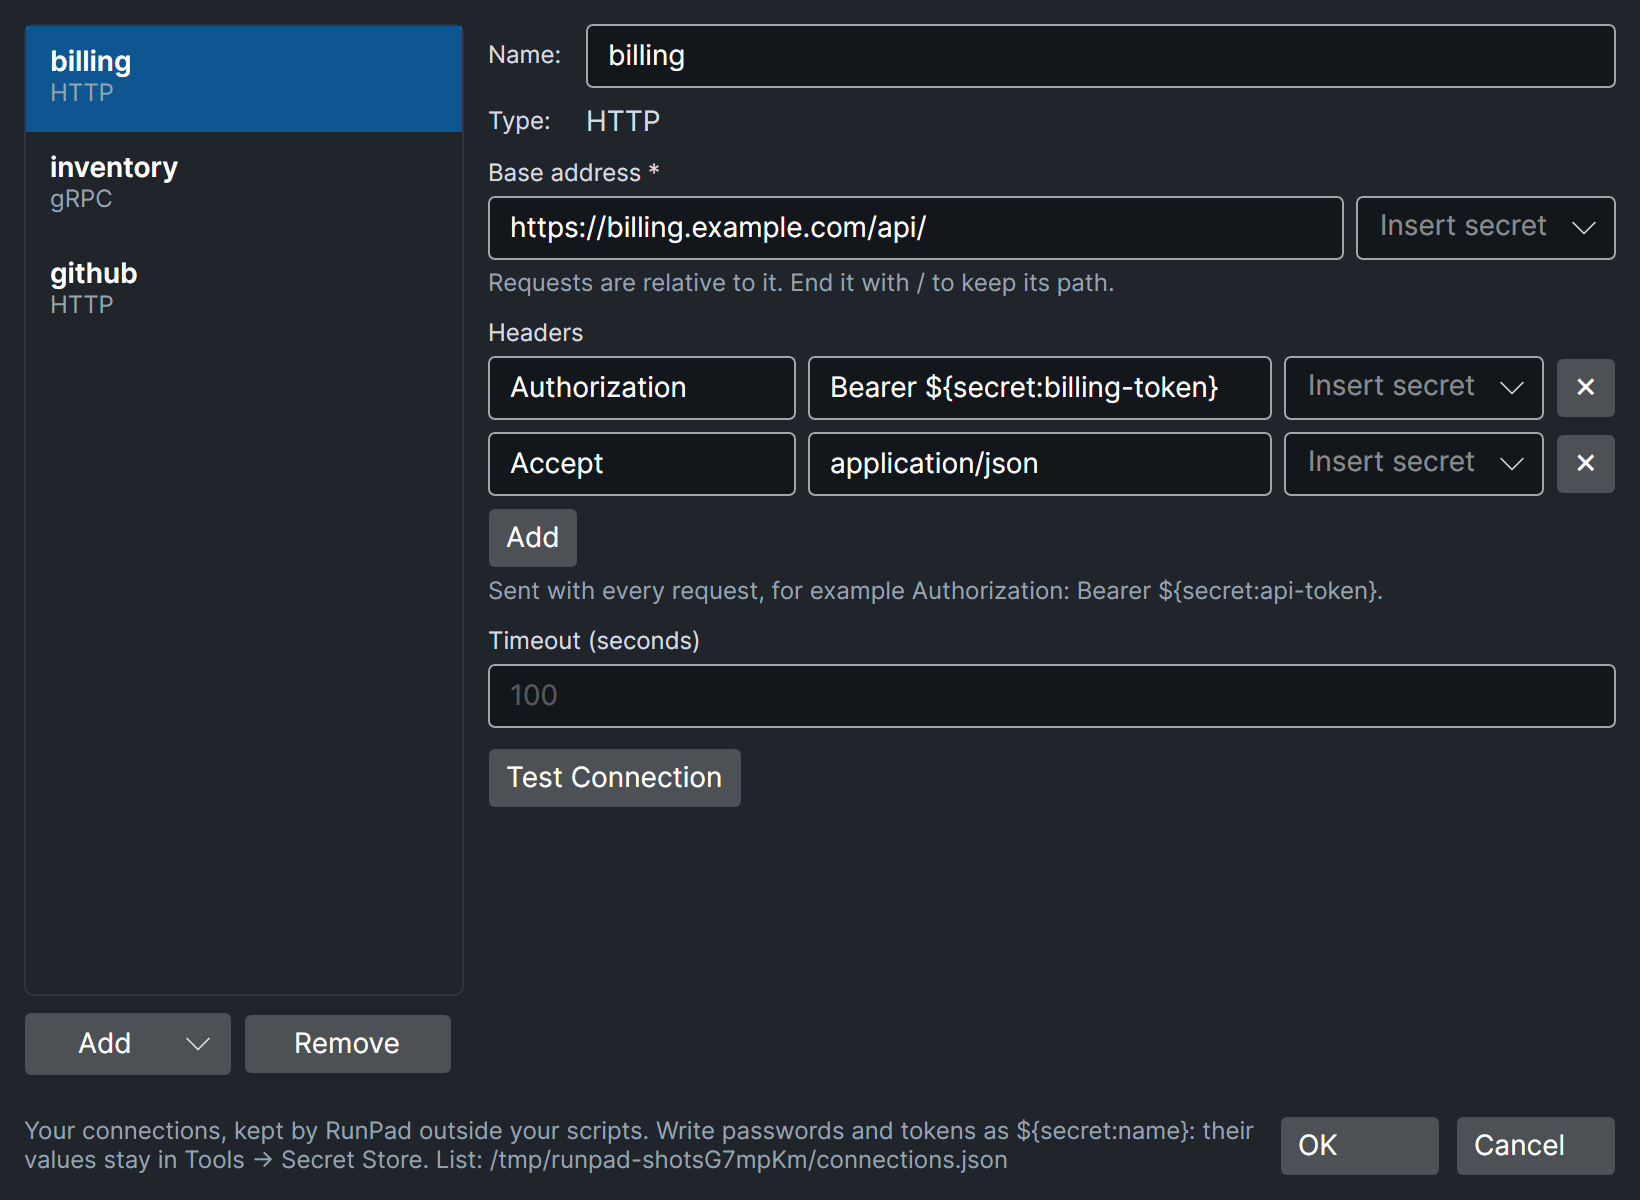
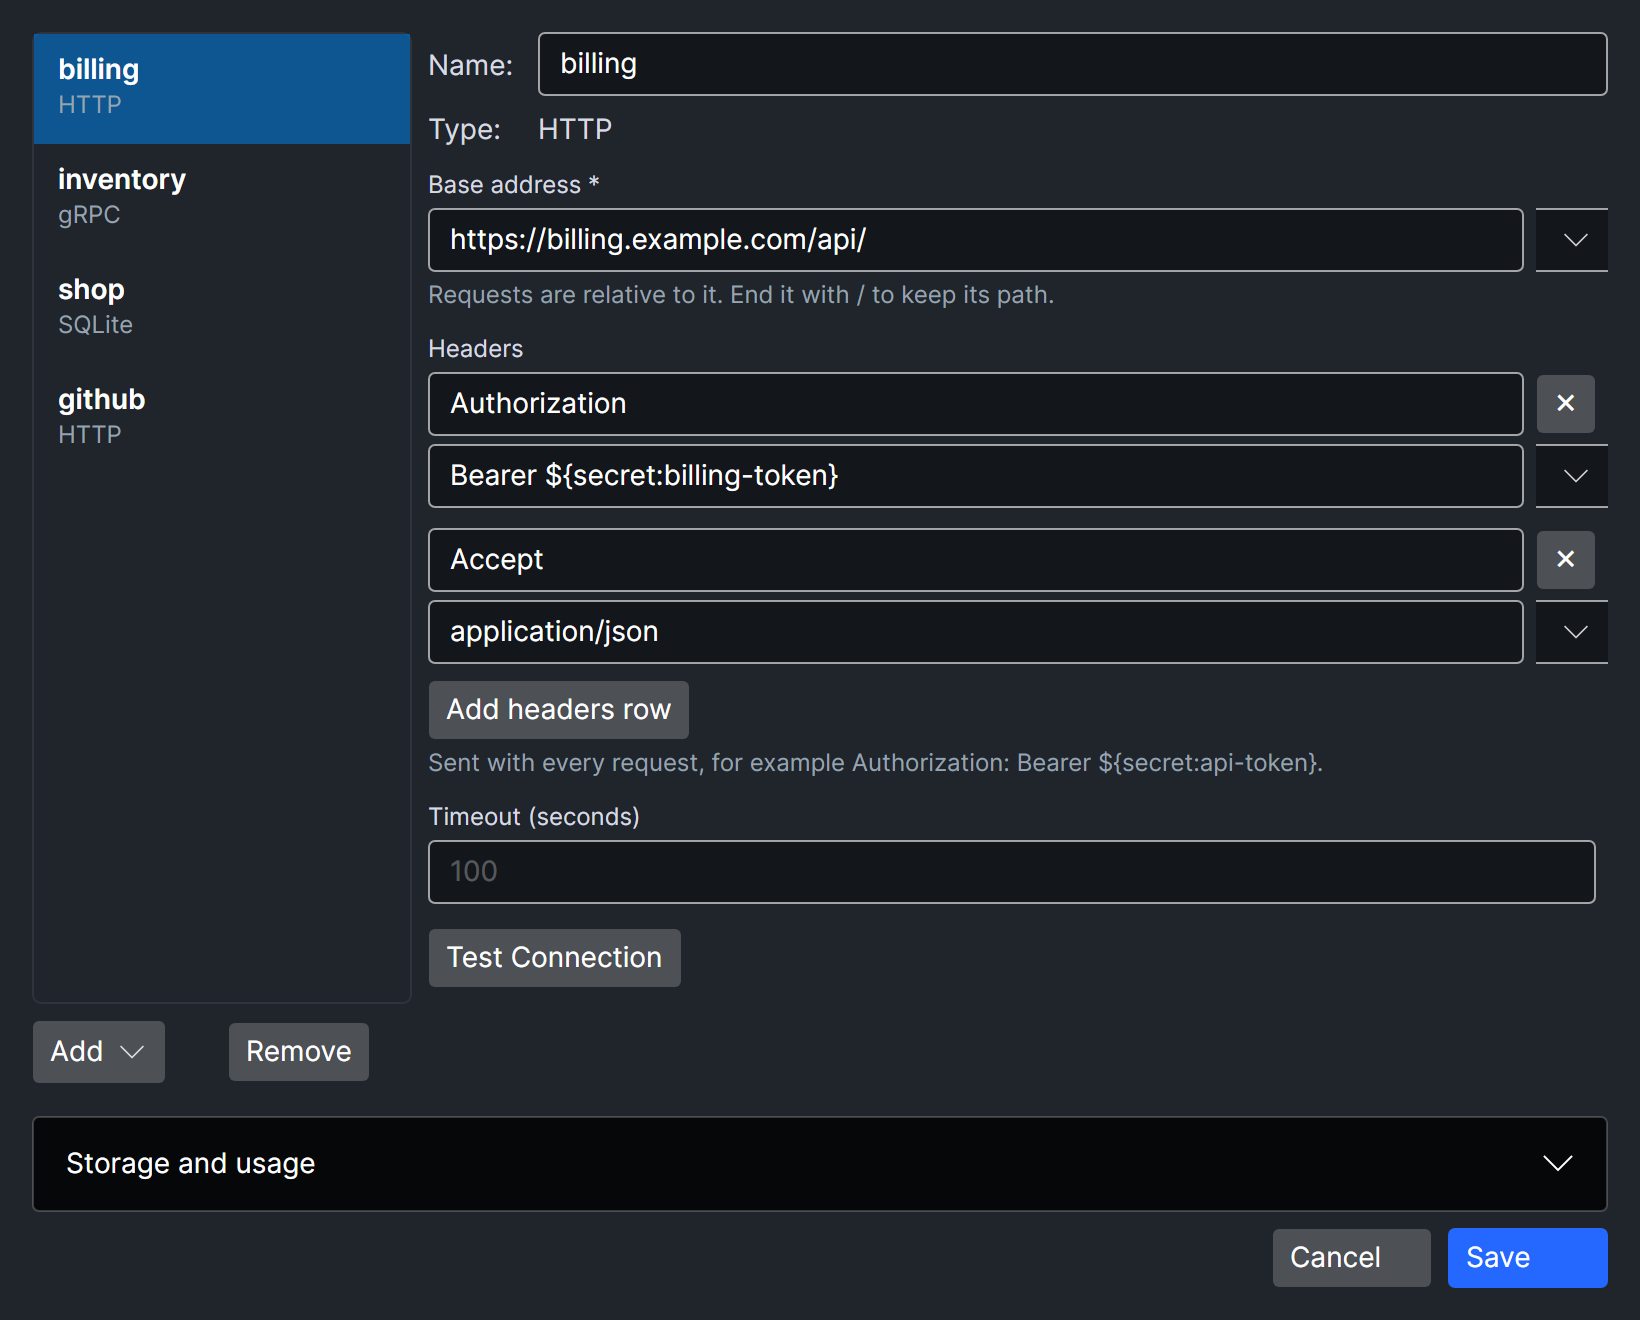
Document SQLite connections

diff --git a/scripts/screenshots/Scenarios.cs b/scripts/screenshots/Scenarios.cs
@@ -356,6 +356,11 @@ public static class Scenarios
             },
             new RpadConnection
             {
+                Name = "shop", Driver = "sqlite",
+                Params = new(StringComparer.Ordinal) { ["file"] = RpadValue.Of("data/shop.db") },
+            },
+            new RpadConnection
+            {
                 Name = "github", Driver = "http",
                 Params = new(StringComparer.Ordinal) { ["baseAddress"] = RpadValue.Of("https://api.github.com/") },
             },
@@ -363,6 +368,7 @@ public static class Scenarios
         var registry = new ConnectionDriverRegistry();
         registry.Register(new HttpConnectionDriver());
         registry.Register(new RunPad.Connectors.Grpc.GrpcConnectionDriver());
+        registry.Register(new RunPad.Connectors.Sqlite.SqliteConnectionDriver());
         var window = new ConnectionsWindow(new ConnectionsWindowViewModel(store, registry, secrets)) { Width = 820, Height = 560 };
         window.Show(c.Window);
         await Pump(1500);

diff --git a/scripts/screenshots/Program.cs b/scripts/screenshots/Program.cs
@@ -158,6 +158,7 @@ public static class Program
             var drivers = new RunPad.Contracts.Connections.ConnectionDriverRegistry();
             drivers.Register(new RunPad.Connectors.Http.HttpConnectionDriver());
             drivers.Register(new RunPad.Connectors.Grpc.GrpcConnectionDriver());
+            drivers.Register(new RunPad.Connectors.Sqlite.SqliteConnectionDriver());
             return drivers;
         });
         services.AddSingleton<Func<DependenciesWindow>>(sp => () => sp.GetRequiredService<DependenciesWindow>());

diff --git a/docs/site/results.md b/docs/site/results.md
@@ -177,20 +177,21 @@ reads the same store. To use another file, for example on a build server, set th
 
 ## Connections
 
-**Tools → Connections** keeps your own connections in one window: for now HTTP APIs and gRPC
-servers, with databases to follow. **Add** creates one of a type; the form shows that type's
-settings. For an HTTP API they are the base address, headers sent with every request and a
-timeout; for a gRPC server, its address and metadata sent with every call.
+**Tools → Connections** keeps your own connections in one window: HTTP APIs, gRPC servers and
+SQLite databases, with other databases to follow. **Add** creates one of a type; the form shows
+that type's settings. For an HTTP API they are the base address, headers sent with every request
+and a timeout; for a gRPC server, its address and metadata sent with every call; for SQLite, the
+database file.
 
 <figure markdown="span">
-  [![The Connections window: billing (HTTP), inventory (gRPC) and github; billing shows its base address and an Authorization header that names a secret](assets/screenshots/connections_light.png#only-light)](assets/screenshots/connections_light.png "Open full-size screenshot")
-  [![The Connections window: billing (HTTP), inventory (gRPC) and github; billing shows its base address and an Authorization header that names a secret](assets/screenshots/connections.png#only-dark)](assets/screenshots/connections.png "Open full-size screenshot")
+  [![The Connections window: billing (HTTP), inventory (gRPC), shop (SQLite) and github; billing shows its base address and an Authorization header that names a secret](assets/screenshots/connections_light.png#only-light)](assets/screenshots/connections_light.png "Open full-size screenshot")
+  [![The Connections window: billing (HTTP), inventory (gRPC), shop (SQLite) and github; billing shows its base address and an Authorization header that names a secret](assets/screenshots/connections.png#only-dark)](assets/screenshots/connections.png "Open full-size screenshot")
 </figure>
 
 Write a password or token as `${secret:name}` (or pick it from **Insert secret**): the value stays
 in the [Secret Store](#secrets) and is filled in only when the connection is used.
 `${env:NAME}` takes an environment variable instead, and `$${` writes a literal `${`.
-**Test Connection** tries the selected connection with those values. **OK** saves the list in
+**Test Connection** tries the selected connection with those values. **Save** saves the list in
 `connections.json` in RunPad's data folder; secrets are never written there.
 
 ### Connections in a script
@@ -251,6 +252,28 @@ else, such as a client RunPad didn't write. The script needs the `Grpc.Net.Clien
 and reads it again when **Test Connection** succeeds, so after the server's services change, test
 the connection once. A server that can't be read, because it is down, refuses the metadata or has
 no reflection, fails the build with the reason, and the **Connections** tab shows it.
+
+### SQLite connections
+
+A SQLite connection names a database file, either a full path or one relative to the script's
+folder (so `data/shop.db` travels with the script). RunPad reads its tables and views when the
+script is opened or run, and the connection becomes an
+[Entity Framework Core](https://learn.microsoft.com/ef/core/) context with a set for each of them,
+named in PascalCase: the table `order_items` is `Connections.Shop.OrderItems`, of `OrderItem`
+rows. Query them with LINQ, and change them with `SaveChanges()`:
+
+```csharp
+Connections.Shop.Customers.Where(c => c.City == "Oslo").OrderBy(c => c.Name).Dump();
+
+Connections.Shop.Customers.Add(new Connections.ShopClient.Customer { Name = "Eve", City = "Bergen" });
+Connections.Shop.SaveChanges();
+```
+
+Views and tables without a primary key can be read but not changed. Turn on **Read only** to open
+the file for reading only. The script needs the `Microsoft.EntityFrameworkCore.Sqlite` package,
+which **Add to Script** adds. RunPad never creates the file: a file that doesn't exist fails the
+build with its full path. A relative path needs the script to be saved; **Test Connection** in
+**Tools → Connections** needs a full path.
 
 Connections work in C# scripts for now.
 

diff --git a/docs/site/scripts.md b/docs/site/scripts.md
@@ -104,7 +104,7 @@ All fields are optional. A missing or empty value falls back to the default.
 | `references` | none | Paths to `.dll` files. See [Packages and references](dependencies.md). |
 | `namespaces` | none | Namespaces imported for the whole script, like global `using` (C#) or project-level `Imports` (VB). |
 | `args` | empty list | String arguments passed to the script when running or debugging. CLI arguments can override this list for one invocation. |
-| `connections` | none | The script's connections: each a `name`, a `driver` (such as `http` or `grpc`) and its `params`. Add them in the Dependencies window; see [Connections in a script](results.md#connections-in-a-script). |
+| `connections` | none | The script's connections: each a `name`, a `driver` (such as `http`, `grpc` or `sqlite`) and its `params`. Add them in the Dependencies window; see [Connections in a script](results.md#connections-in-a-script). |
 | `allowUnsafe` | `false` | C# only: `true` compiles the script with unsafe code allowed. Written only when on. See [Compilation](dependencies.md#compilation). |
 
 Field names are case-sensitive camelCase (`targetSdk`, not `TargetSdk`). The values of
